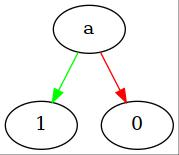
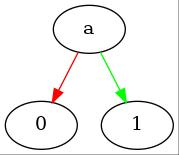
fix: 0 and 1 are unique

diff --git a/Submit/Pb5/main.py b/Submit/Pb5/main.py
@@ -48,7 +48,11 @@ def makeGraphToImage(input_file_path, output_file_path):
   for (index, node) in enumerate(treeNodes):
     if node == 'X':
       continue
-    g.node(node + str(index), node)
+    if node != '1' and node != '0':
+      g.node(node + str(index), node)
+
+  g.node('0', '0')
+  g.node('1', '1')
 
   for (index, node) in enumerate(treeNodes):
     if node == 'X':
@@ -64,12 +68,18 @@ def makeGraphToImage(input_file_path, output_file_path):
     right = treeNodes[rightIndex]
 
     if left != 'X':
-      g.edge(node + str(index), left + str(leftIndex), color='green')
+      if left != '1' and left != '0':
+        g.edge(node + str(index), left + str(leftIndex), color='green')
+      else:
+        g.edge(node + str(index), left, color='green')
 
     if right != 'X':
-      g.edge(node + str(index), right + str(rightIndex), color='red')
+      if right != '1' and right != '0':
+        g.edge(node + str(index), right + str(rightIndex), color='red')
+      else:
+        g.edge(node + str(index), right, color='red')
 
-  g.render(output_file_path , format='jpeg', cleanup=False)
+  g.render(output_file_path, format='jpeg', cleanup=False)
 
 makeGraphToImage('./output/tree.txt', './output/tree')
 
